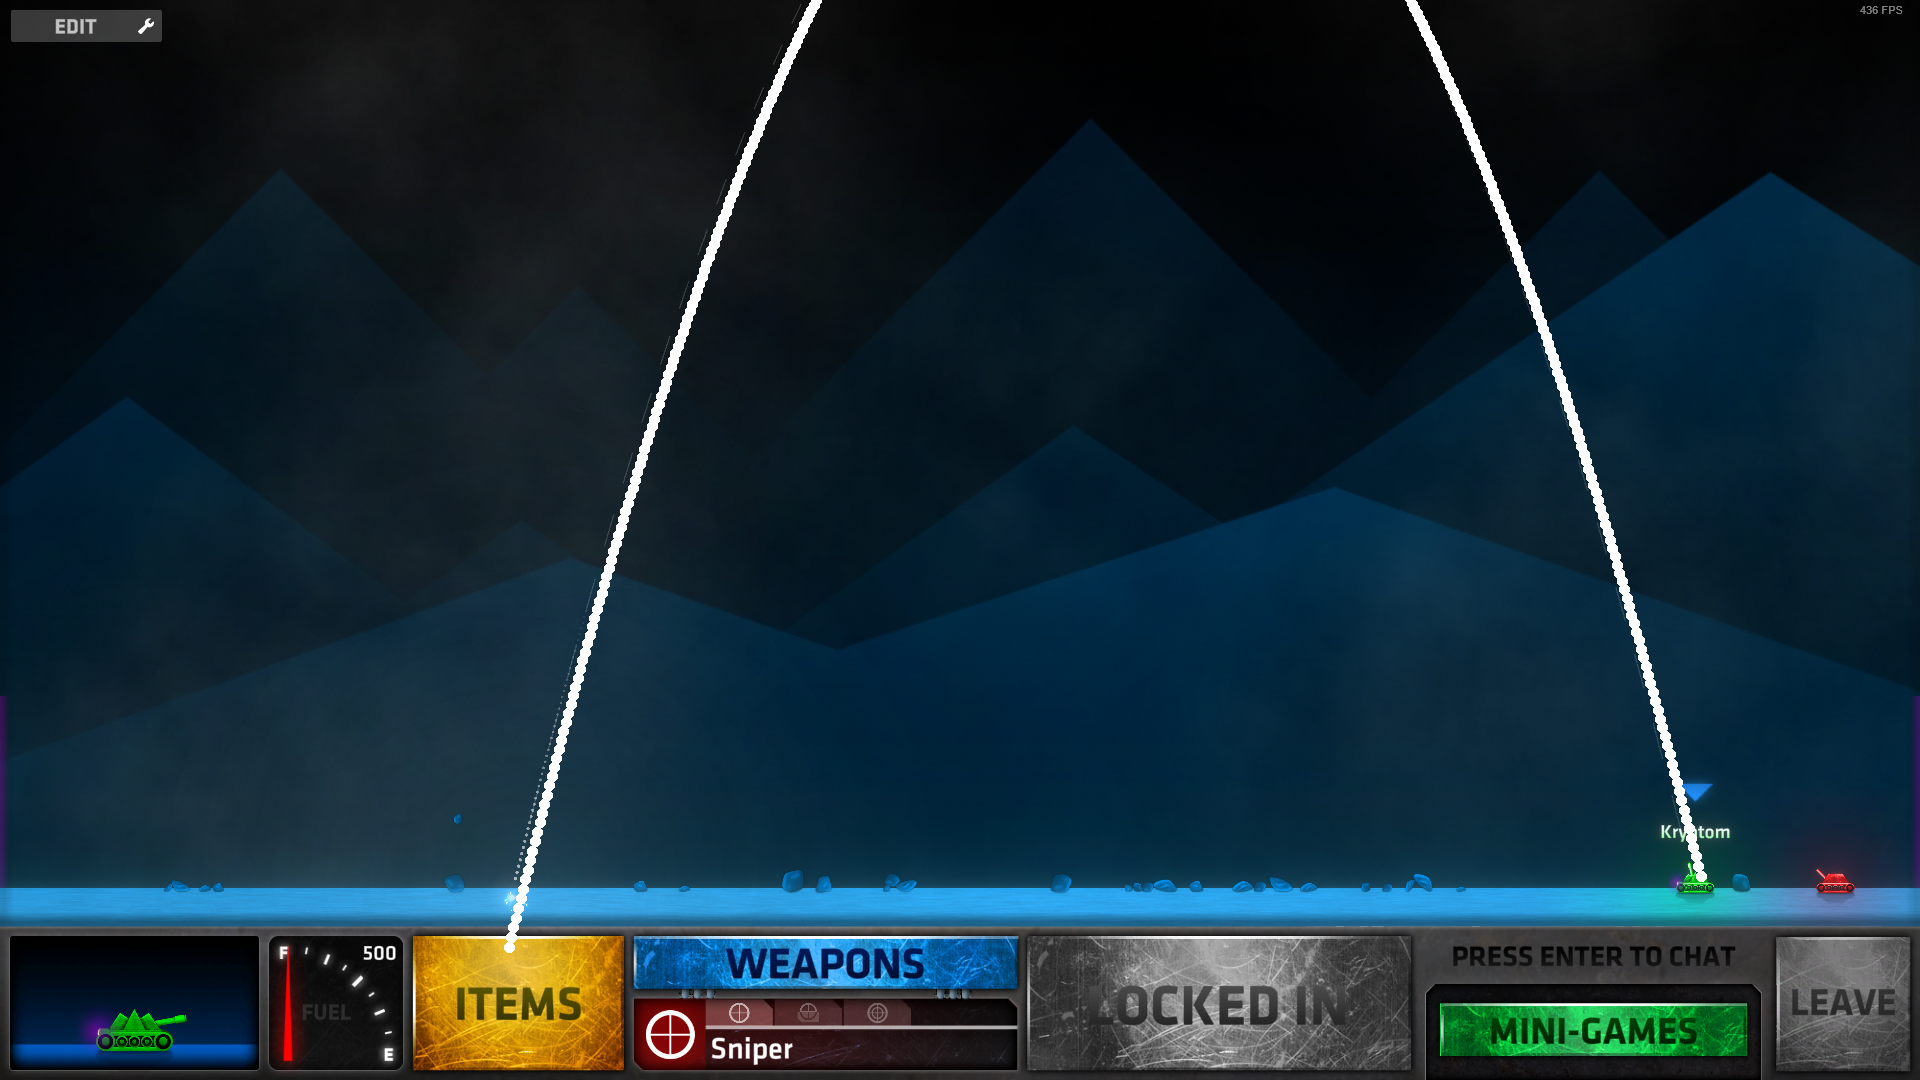
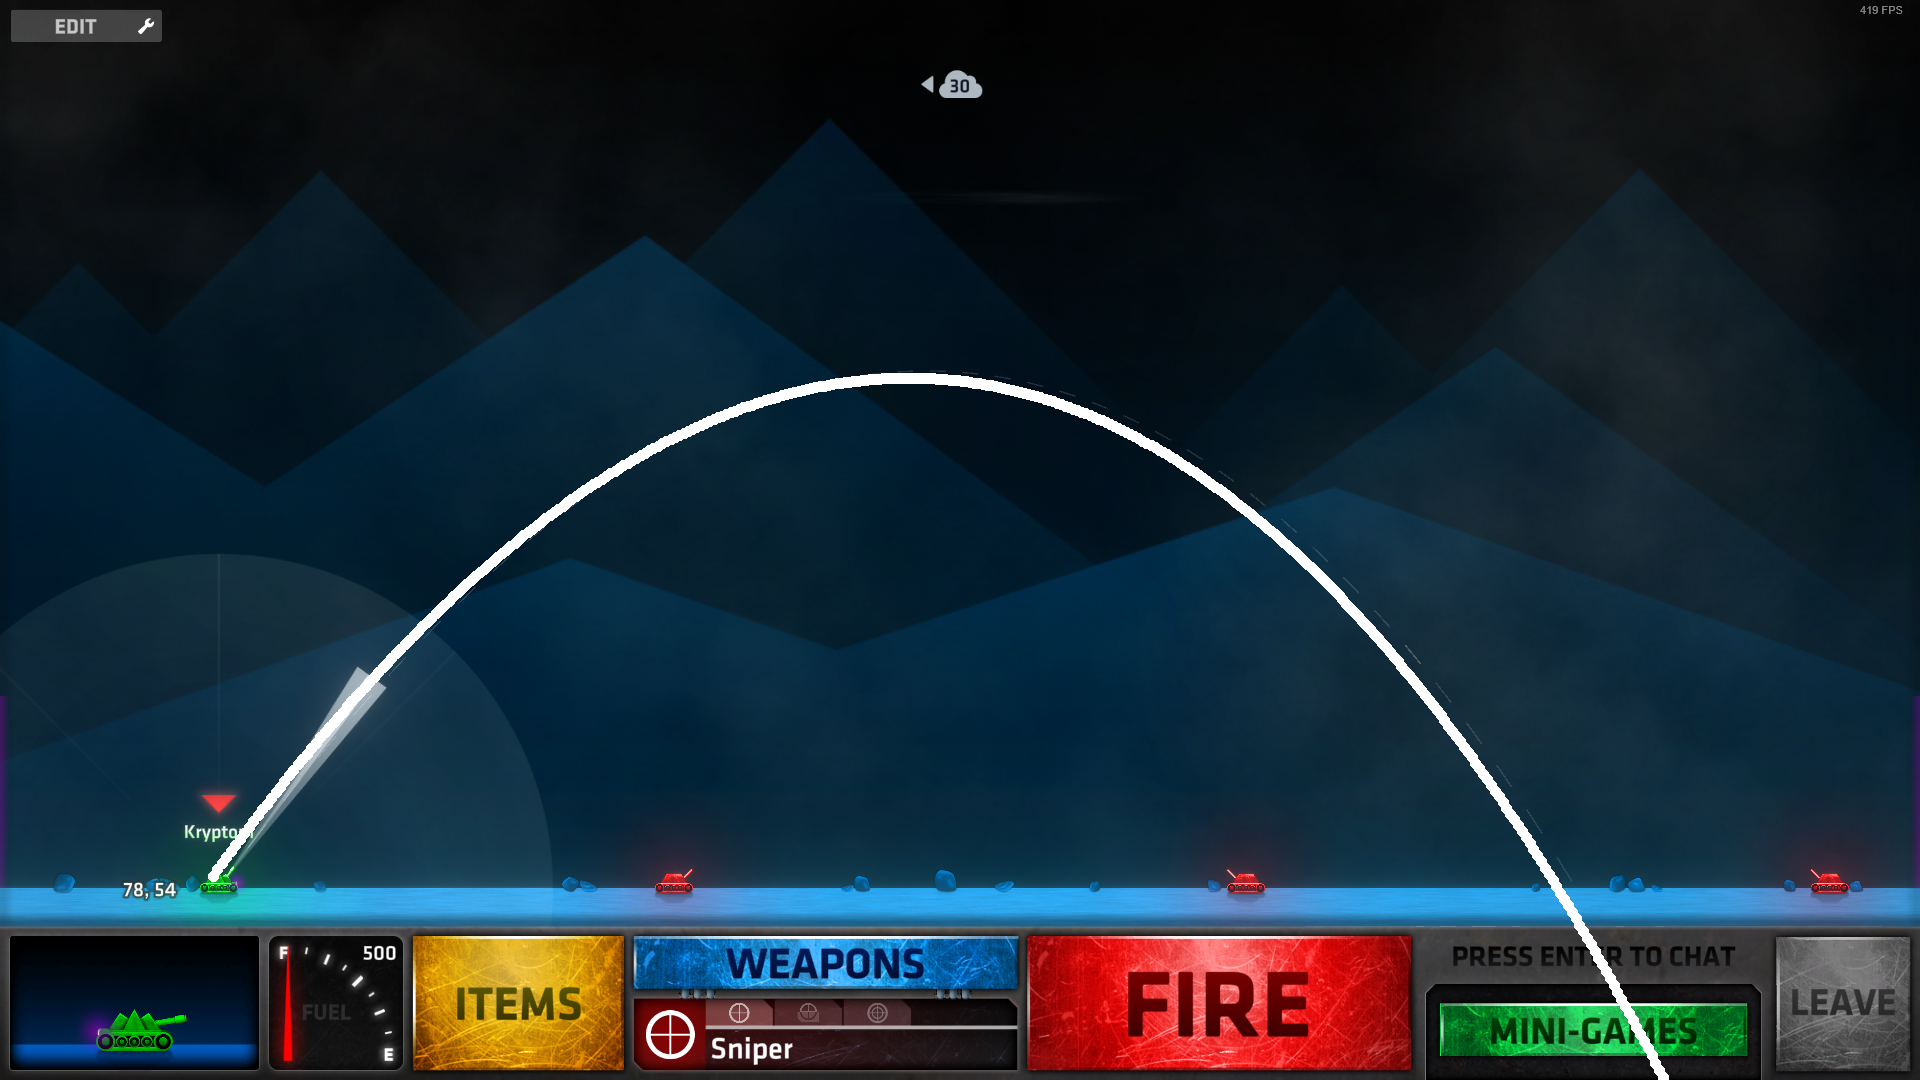
Working relatively good with wind

diff --git a/shootingStrategies.py b/shootingStrategies.py
@@ -3,21 +3,20 @@ import math
 from coordinateManager import CoordinateManager
 
 GRAVITY = 0.359413
+WIND_FACTOR = 0.000252 / 2
 
 """
 Formulas for calculating x,y positions at a given time t with
-    angle: [0,2*π]
+    angle: [0,359]
     wind: [-100,100]
     time: N
     gravity: [0:N)
-    speed: [0,N]
-    
-    x = (speed * cos(winkel) + wind * time) * time
-    y = speed * sin(winkel) * time - 0.5 * gravity * time^2
+    strength: [0,N]
 """
 def calculatePosition(angle : int, strength : int ,wind : int, time : float, coordManager : CoordinateManager, x_offset : float, y_offset : float) -> tuple[float,float]:
     angle = math.radians(angle)
     strength = 0.009133*strength - 0.0009244
+    wind = WIND_FACTOR*wind
     
     x = (strength * CM.getScreenHeigth() / CM.getScreenWidth() * math.cos(angle) + wind * time) * time + x_offset
     y = -1* (strength * math.sin(angle) * time - 0.5 * GRAVITY * time**2) + y_offset
@@ -49,9 +48,9 @@ if __name__ == "__main__":
     myTank = friendlyTank(CM.TANK1BOX, (36, 245, 41), CM, GE)
     myTank.getAverageCoordinatesBreadth()
     
-    angle = 104
-    strength = 100
-    wind = 0
+    angle = 54
+    strength = 78
+    wind = -44
     
     t = 0
     maxT = 5
